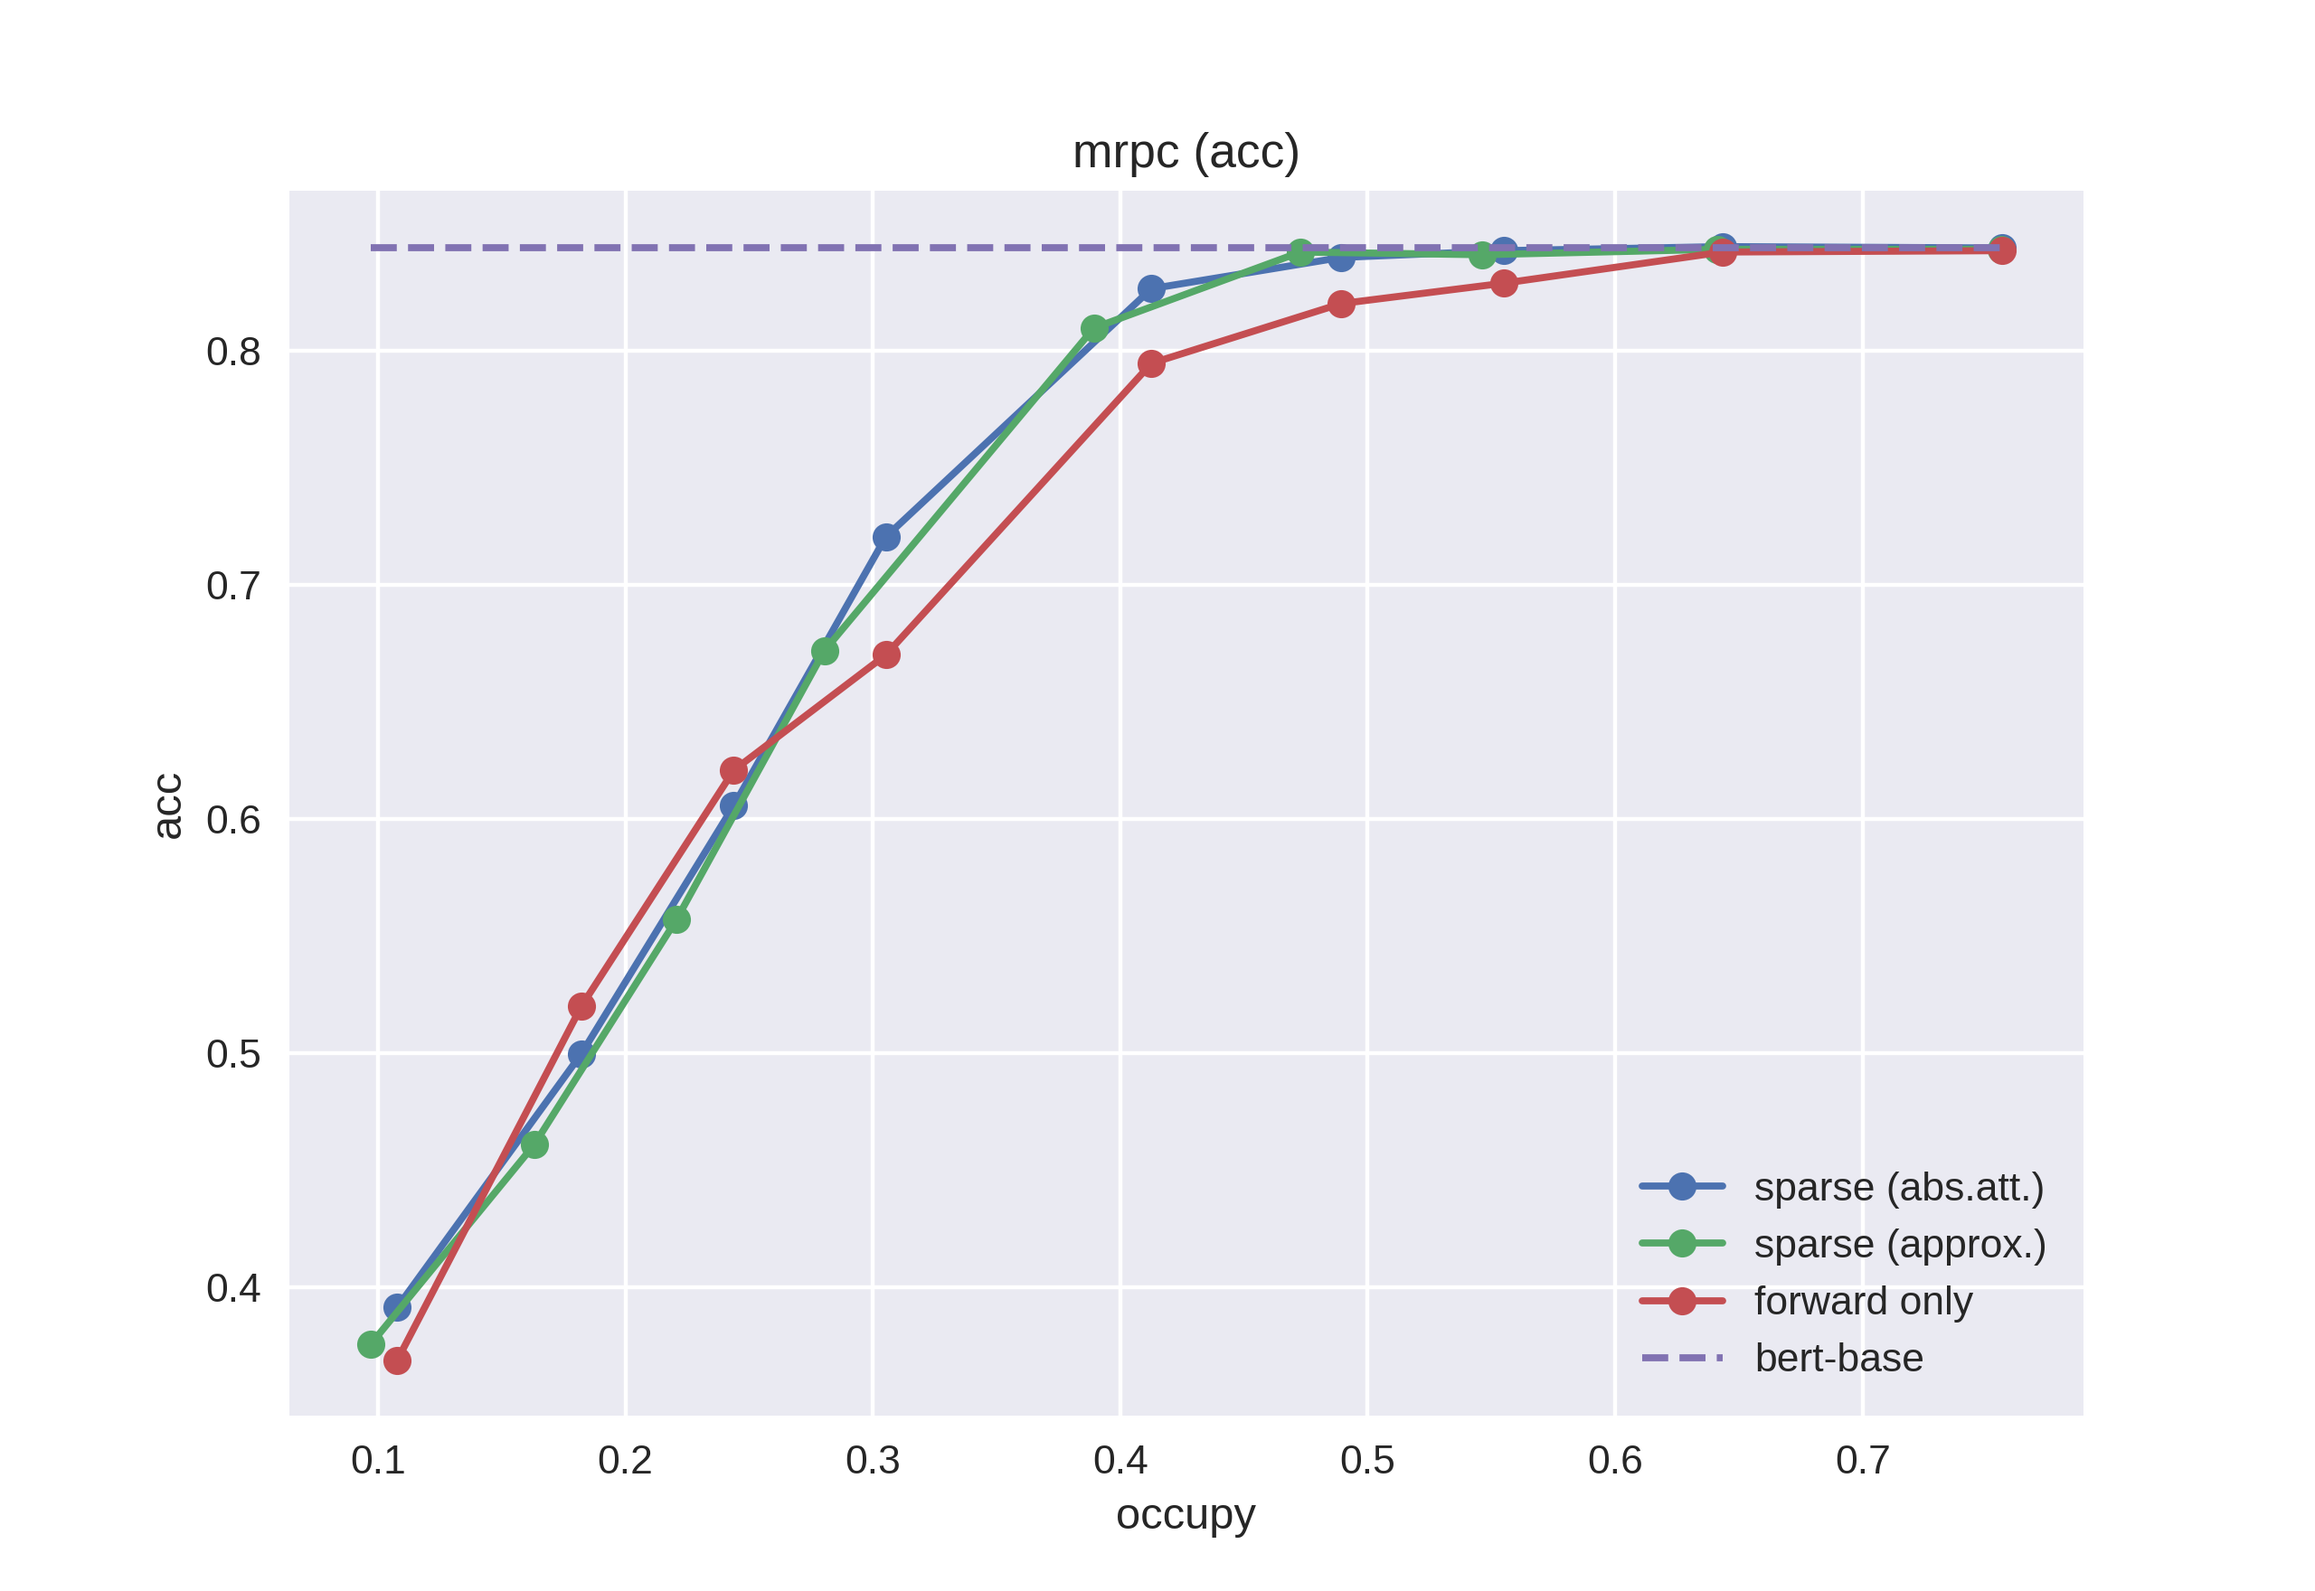
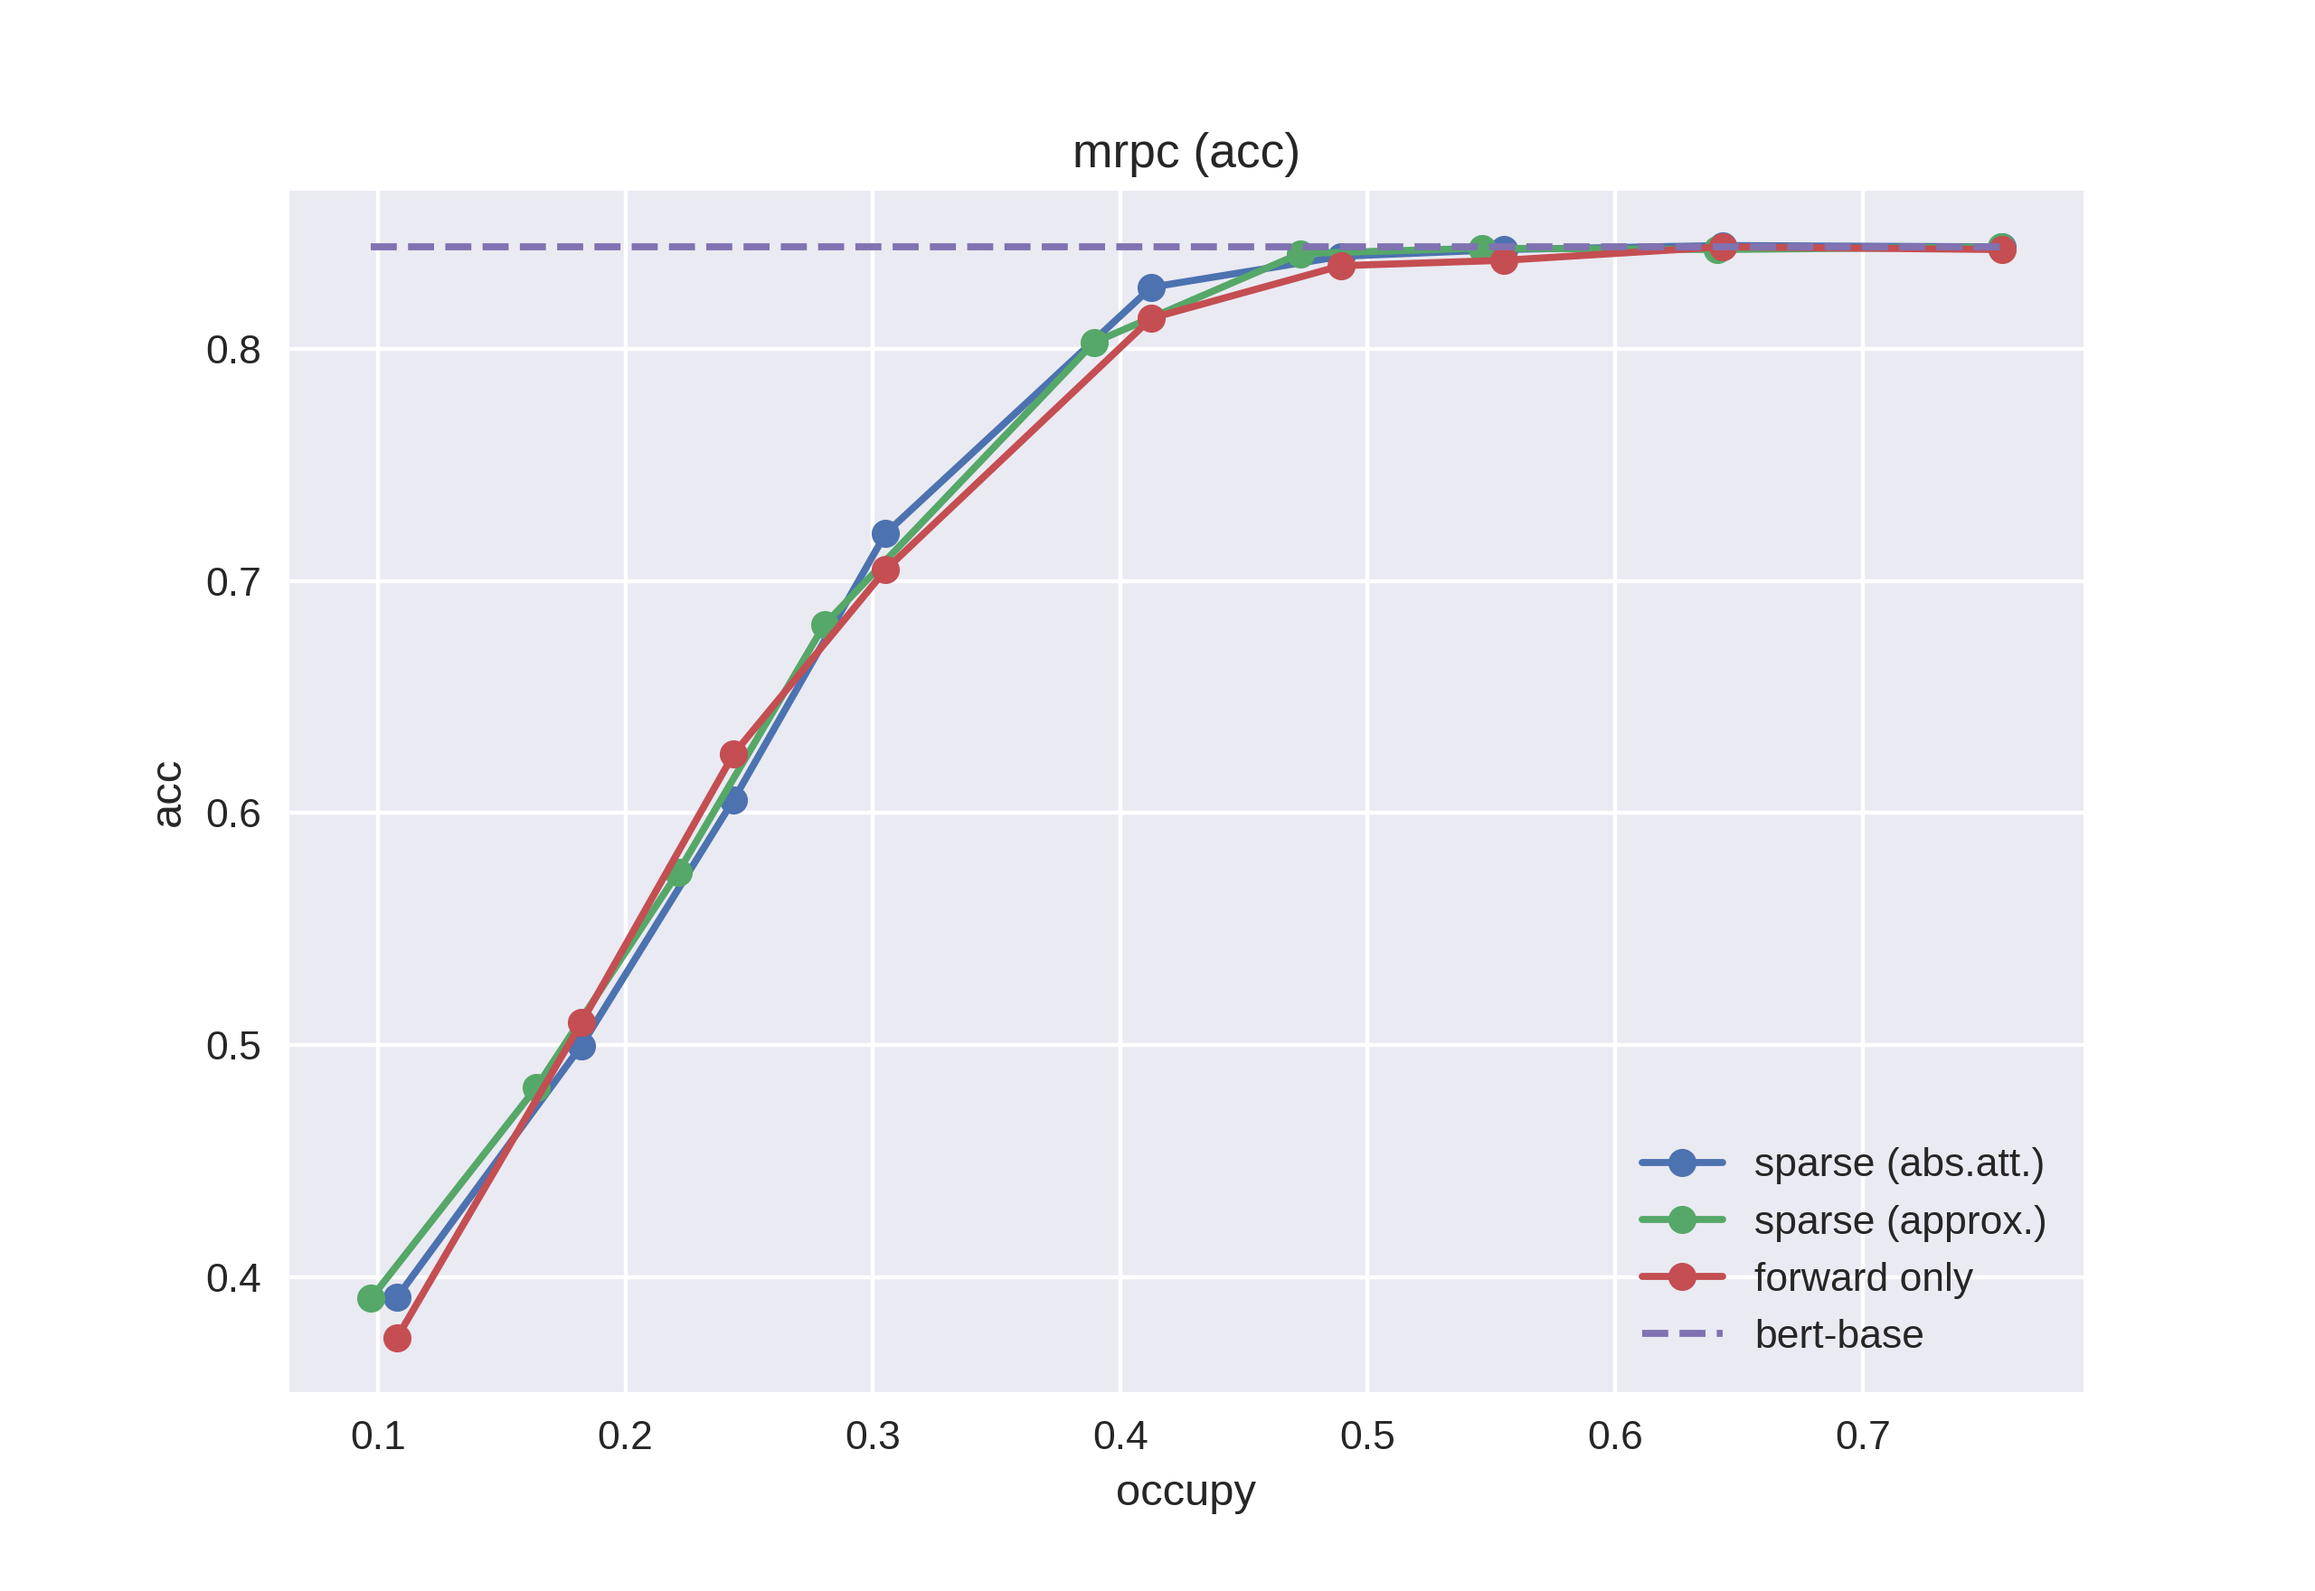
update plots

diff --git a/plot_benchmark_glue_accum_absatt.py b/plot_benchmark_glue_accum_absatt.py
@@ -11,13 +11,13 @@ sparse.set_update_input_mask_accumulate_indices(True)
 Glue = glue_base.GlueAttentionApproxTrainer
 
 RESULT_PKL = 'glue_benchmark_accum_absatt.pkl'
-PLOT_HEADER= '[TEMP]'
+PLOT_HEADER= '[F4-PREWIKI]'
 
 # %%
 factor = 4
 subsets = ["cola","mnli","mrpc","qnli","qqp","rte","sst2","stsb","wnli",]
 kss = [0.05, 0.1, 0.15, 0.2, 0.3, 0.4, 0.5, 0.625, 0.75]
-subsets = ['qnli']
+#subsets = ['mrpc']
 #kss = [0.05, 0.1, 0.15, 0.2, 0.3, 0.5]
 #kss = [0.1, 0.5]
 RUN_APPROX = True
@@ -64,9 +64,10 @@ def run_exp():
             mask_occupy_approx = sparse.benchmark_get_average('mask_occupy')
             print('sparse approx', score_approx, '@', mask_occupy_approx)
 
-        trainer.set_batch_size(1)
+        trainer.set_batch_size(8)
         target_ks = mask_occupy
         ksx = [target_ks*0.5+((1-x/11.0)**1.0) * target_ks for x in range(12)]
+        ksx[-1] = 0.99
         score_forward, _ = get_score(trainer.eval_sparse_model(ks=ksx, use_forward=True, show_message=False))
         print('forward', score_forward, '@', mask_occupy)
 
@@ -123,6 +124,7 @@ for subset in subsets:
     plt.title(f'{subset} ({metric})')
     plt.savefig(f'saves_plot/{PLOT_HEADER}accum_absolute_attention_{subset}.png', dpi=320)
     plt.show(block=False)
+    plt.clf()
 
 # %%
 
